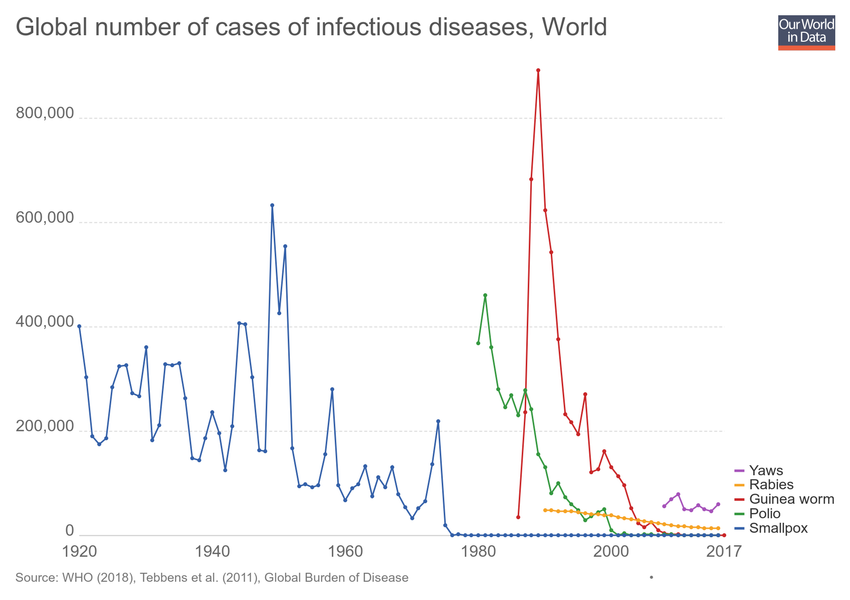
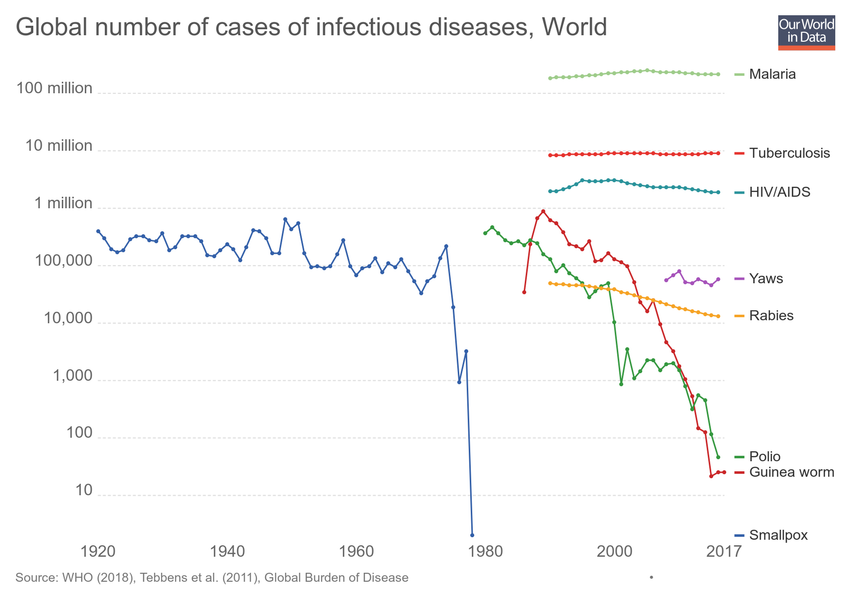
Updating chart global-number-of-cases-of-infectious-diseases

diff --git a/grapher/global-number-of-cases-of-infectious-diseases.html b/grapher/global-number-of-cases-of-infectious-diseases.html
@@ -1,4 +1,4 @@
-<!doctype html><html><head><meta name="viewport" content="width=device-width, initial-scale=1" /><title>Global number of cases of infectious diseases - Our World in Data</title><meta name="description" content="An interactive visualization from Our World in Data." /><link rel="canonical" href="https://ourworldindata.org/grapher/global-number-of-cases-of-infectious-diseases" /><meta property="fb:app_id" content="1149943818390250" /><meta property="og:url" content="https://ourworldindata.org/grapher/global-number-of-cases-of-infectious-diseases" /><meta property="og:title" content="Global number of cases of infectious diseases" /><meta property="og:description" content="An interactive visualization from Our World in Data." /><meta property="og:image" content="https://ourworldindata.org/grapher/exports/global-number-of-cases-of-infectious-diseases.png?v=4" /><meta property="og:image:width" content="850" /><meta property="og:image:height" content="600" /><meta property="og:site_name" content="Our World in Data" /><meta name="twitter:card" content="summary_large_image" /><meta name="twitter:site" content="@OurWorldInData" /><meta name="twitter:creator" content="@OurWorldInData" /><meta name="twitter:title" content="Global number of cases of infectious diseases" /><meta name="twitter:description" content="An interactive visualization from Our World in Data." /><meta name="twitter:image" content="https://ourworldindata.org/grapher/exports/global-number-of-cases-of-infectious-diseases.png?v=4" /><style>
+<!doctype html><html><head><meta name="viewport" content="width=device-width, initial-scale=1" /><title>Global number of cases of infectious diseases - Our World in Data</title><meta name="description" content="An interactive visualization from Our World in Data." /><link rel="canonical" href="https://ourworldindata.org/grapher/global-number-of-cases-of-infectious-diseases" /><meta property="fb:app_id" content="1149943818390250" /><meta property="og:url" content="https://ourworldindata.org/grapher/global-number-of-cases-of-infectious-diseases" /><meta property="og:title" content="Global number of cases of infectious diseases" /><meta property="og:description" content="An interactive visualization from Our World in Data." /><meta property="og:image" content="https://ourworldindata.org/grapher/exports/global-number-of-cases-of-infectious-diseases.png?v=5" /><meta property="og:image:width" content="850" /><meta property="og:image:height" content="600" /><meta property="og:site_name" content="Our World in Data" /><meta name="twitter:card" content="summary_large_image" /><meta name="twitter:site" content="@OurWorldInData" /><meta name="twitter:creator" content="@OurWorldInData" /><meta name="twitter:title" content="Global number of cases of infectious diseases" /><meta name="twitter:description" content="An interactive visualization from Our World in Data." /><meta name="twitter:image" content="https://ourworldindata.org/grapher/exports/global-number-of-cases-of-infectious-diseases.png?v=5" /><style>
         html, body {
             height: 100%;
             margin: 0;
@@ -20,8 +20,8 @@
         }
     </style><noscript><style>
                     figure { display: none !important; }
-                </style></noscript><link rel="stylesheet" href="https://ourworldindata.org/grapher/assets/commons.bundle.019a92548339820130b6.css" /><link rel="preload" href="/grapher/data/variables/67406+66553+65367+81557+85935.json?v=4" as="fetch" crossorigin /></head><body class="singleChart"><figure data-grapher-src="/grapher/global-number-of-cases-of-infectious-diseases"></figure><noscript id="fallback"><img src="/grapher/exports/global-number-of-cases-of-infectious-diseases.svg" /><p>Interactive visualization requires JavaScript</p></noscript><script src="https://cdn.polyfill.io/v2/polyfill.min.js?features=es6,fetch"></script><script src="https://ourworldindata.org/grapher/assets/commons.bundle.019a92548339820130b6.js"></script><script src="https://ourworldindata.org/grapher/assets/charts.bundle.dcf65b68eddaba4c6a58.js"></script><script>
-        var jsonConfig = {"id":2557,"map":{"projection":"World","colorSchemeLabels":[],"colorSchemeValues":[],"colorSchemeMinValue":0,"customNumericColors":[],"customCategoryColors":{},"customCategoryLabels":{},"customHiddenCategories":{}},"tab":"chart","slug":"global-number-of-cases-of-infectious-diseases","type":"LineChart","title":"Global number of cases of infectious diseases","xAxis":{"scaleType":"linear"},"yAxis":{"min":0,"scaleType":"linear","canChangeScaleType":true},"version":4,"hasMapTab":false,"stackMode":"absolute","dimensions":[{"display":{"name":"Guinea worm","unit":"cases","numDecimalPlaces":0},"property":"y","variableId":67406},{"display":{"name":"Polio","unit":"cases","numDecimalPlaces":0},"property":"y","variableId":66553},{"display":{"name":"Smallpox","unit":"cases","numDecimalPlaces":0},"property":"y","variableId":65367},{"display":{"name":"Rabies","unit":"cases","numDecimalPlaces":0},"property":"y","variableId":81557},{"display":{"name":"Yaws","unit":"cases","numDecimalPlaces":0},"property":"y","variableId":85935}],"entityType":"","sourceDesc":"WHO (2018), Tebbens et al. (2011), Global Burden of Disease","hasChartTab":true,"isPublished":true,"selectedData":[{"index":0,"entityId":355},{"index":1,"entityId":355},{"index":2,"entityId":355},{"index":3,"entityId":355},{"index":4,"entityId":355}],"addCountryMode":"change-country"};
+                </style></noscript><link rel="stylesheet" href="https://ourworldindata.org/grapher/assets/commons.bundle.019a92548339820130b6.css" /><link rel="preload" href="/grapher/data/variables/67406+66553+65367+81557+85935+77504+80972+80952.json?v=5" as="fetch" crossorigin /></head><body class="singleChart"><figure data-grapher-src="/grapher/global-number-of-cases-of-infectious-diseases"></figure><noscript id="fallback"><img src="/grapher/exports/global-number-of-cases-of-infectious-diseases.svg" /><p>Interactive visualization requires JavaScript</p></noscript><script src="https://cdn.polyfill.io/v2/polyfill.min.js?features=es6,fetch"></script><script src="https://ourworldindata.org/grapher/assets/commons.bundle.019a92548339820130b6.js"></script><script src="https://ourworldindata.org/grapher/assets/charts.bundle.dcf65b68eddaba4c6a58.js"></script><script>
+        var jsonConfig = {"id":2557,"map":{"projection":"World","colorSchemeLabels":[],"colorSchemeValues":[],"colorSchemeMinValue":0,"customNumericColors":[],"customCategoryColors":{},"customCategoryLabels":{},"customHiddenCategories":{}},"tab":"chart","slug":"global-number-of-cases-of-infectious-diseases","type":"LineChart","title":"Global number of cases of infectious diseases","xAxis":{"scaleType":"linear"},"yAxis":{"min":0,"scaleType":"log","canChangeScaleType":true},"version":5,"hasMapTab":false,"stackMode":"absolute","dimensions":[{"display":{"name":"Guinea worm","unit":"cases","numDecimalPlaces":0},"property":"y","variableId":67406},{"display":{"name":"Polio","unit":"cases","numDecimalPlaces":0},"property":"y","variableId":66553},{"display":{"name":"Smallpox","unit":"cases","numDecimalPlaces":0},"property":"y","variableId":65367},{"display":{"name":"Rabies","unit":"cases","numDecimalPlaces":0},"property":"y","variableId":81557},{"display":{"name":"Yaws","unit":"cases","numDecimalPlaces":0},"property":"y","variableId":85935},{"display":{"name":"Malaria","unit":"cases","numDecimalPlaces":0},"property":"y","variableId":77504},{"display":{"name":"HIV/AIDS","unit":"cases","numDecimalPlaces":0},"property":"y","variableId":80972},{"display":{"name":"Tuberculosis","unit":"cases","numDecimalPlaces":0},"property":"y","variableId":80952}],"entityType":"","sourceDesc":"WHO (2018), Tebbens et al. (2011), Global Burden of Disease","hasChartTab":true,"isPublished":true,"selectedData":[{"index":0,"entityId":355},{"index":1,"entityId":355},{"index":2,"entityId":355},{"index":3,"entityId":355},{"index":4,"entityId":355},{"index":5,"entityId":355},{"index":6,"entityId":355},{"index":7,"entityId":355}],"addCountryMode":"change-country"};
         var figure = document.getElementsByTagName("figure")[0];
         try {
             window.App = {};
